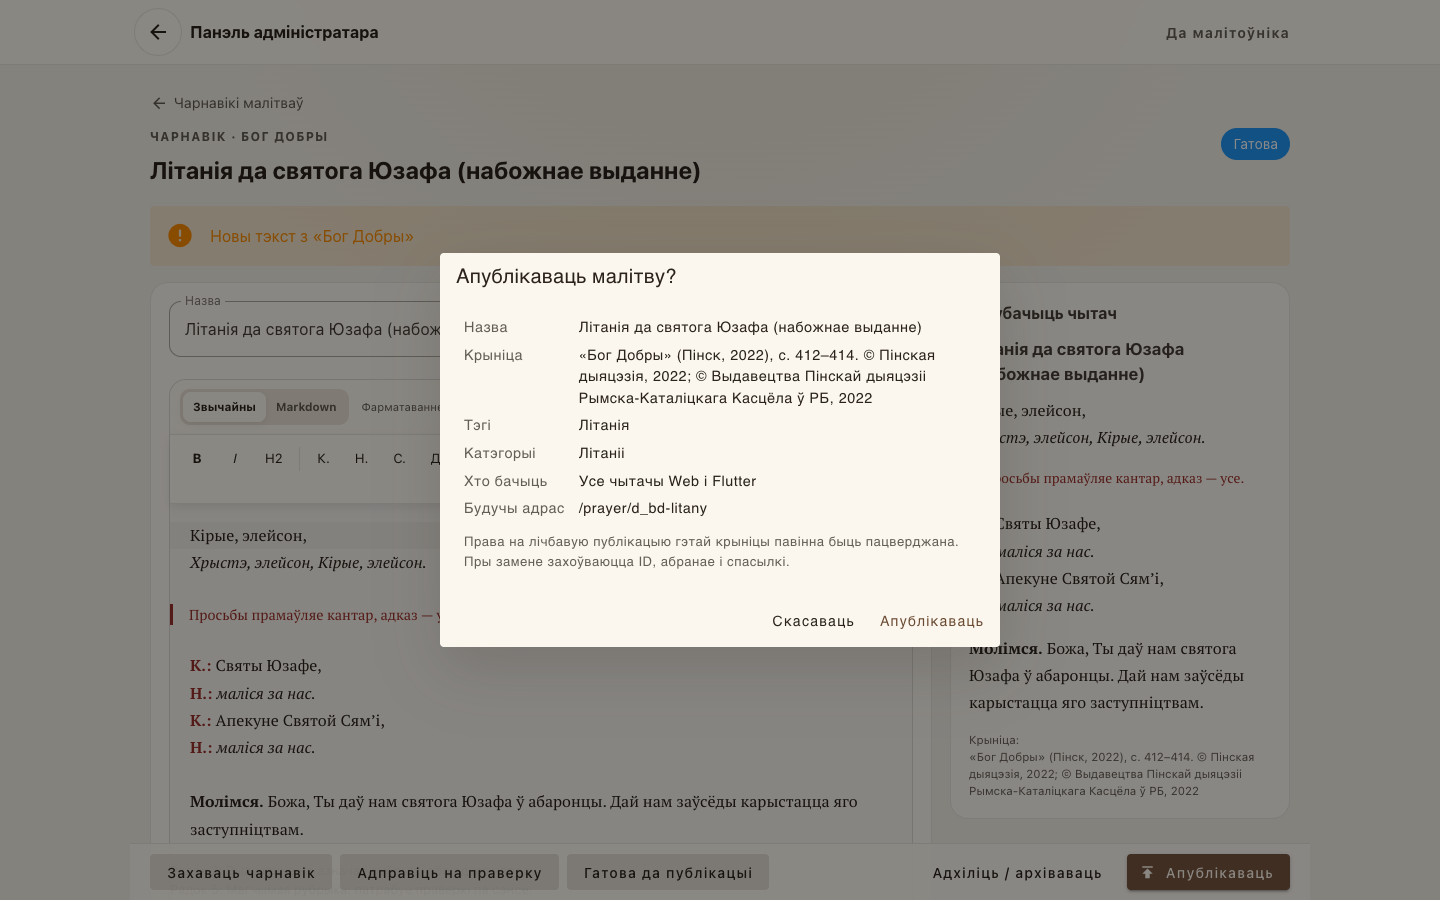
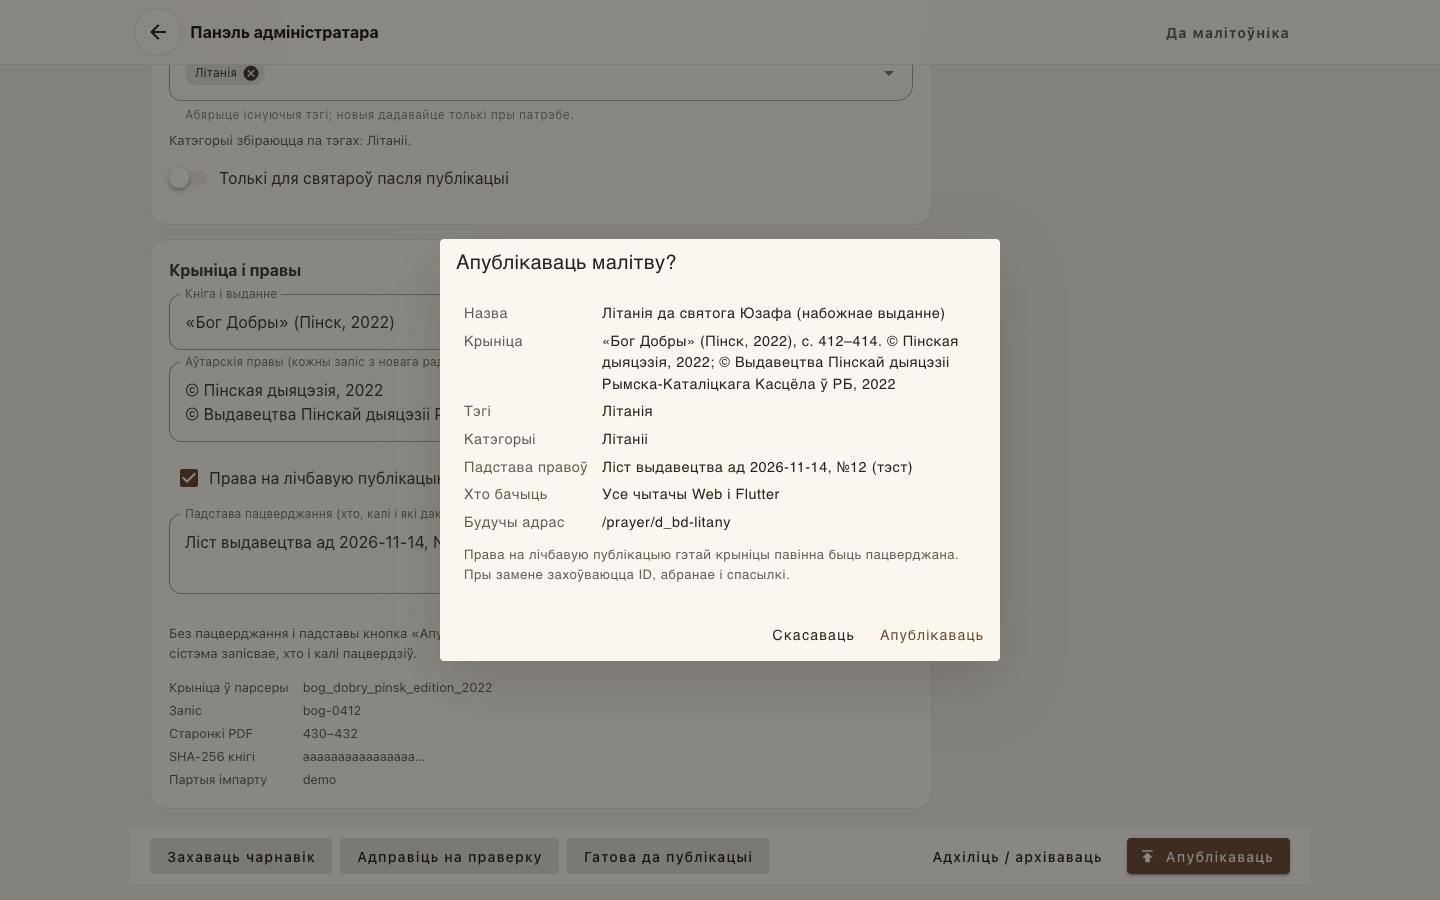
drafts: confirming digital-publication rights needs a written basis and a recorded confirmer
A bare checkbox is no longer a confirmation: rightsStatus 'confirmed' requires rightsBasis (10-500 chars),
the system records rightsConfirmedBy (the signed-in admin, forged uids are refused by the rules) and
rightsConfirmedAt, publication needs an explicit 'confirmed'. Importer: rights.json needs confirmedBy + basis.
Adds emulator tests for plain admin (priestOnly publish, status moves, audit, no superadmin powers) and
for forging the confirmer; the UI smoke now goes through the basis step as a plain admin.

diff --git a/src/views/admin/PrayerDraftEditor.vue b/src/views/admin/PrayerDraftEditor.vue
@@ -41,7 +41,9 @@
             <v-textarea v-model="copyrightText" label="Аўтарскія правы (кожны запіс з новага радка)" variant="outlined" rows="2" auto-grow hide-details="auto" class="mt-3" :readonly="locked" />
             <v-checkbox v-model="rightsConfirmed" class="mt-2" color="primary" hide-details :readonly="locked"
               label="Права на лічбавую публікацыю гэтай крыніцы пацверджаны пісьмова" />
-            <p class="hint">Без пацверджання кнопка «Апублікаваць» заблакаваная. Права на кнігу не вынікаюць з наяўнасці PDF.</p>
+            <v-textarea v-if="rightsConfirmed" v-model="form.rightsBasis" data-test="rights-basis" label="Падстава пацверджання (хто, калі і які дакумент ці ліцэнзія)" variant="outlined" rows="2" auto-grow
+              counter="500" maxlength="500" hide-details="auto" class="mt-2" :readonly="locked" :error="!basisValid" :error-messages="basisValid ? [] : ['Без падставы пацверджанне не дзейнічае (мінімум 10 сімвалаў).']" />
+            <p class="hint">Без пацверджання і падставы кнопка «Апублікаваць» заблакаваная. Права на кнігу не вынікаюць з наяўнасці PDF; сістэма запісвае, хто і калі пацвердзіў.</p>
             <dl class="provenance">
               <template v-for="row in provenance" :key="row[0]"><dt>{{ row[0] }}</dt><dd>{{ row[1] }}</dd></template>
             </dl>
@@ -94,6 +96,7 @@
             <dt>Крыніца</dt><dd>{{ sourceNotice || '—' }}</dd>
             <dt>Тэгі</dt><dd>{{ form.tags.join(', ') || '—' }}</dd>
             <dt>Катэгорыі</dt><dd>{{ categoryNames || '—' }}</dd>
+            <dt>Падстава правоў</dt><dd>{{ form.rightsBasis || '—' }}</dd>
             <dt>Хто бачыць</dt><dd>{{ form.priestOnly ? 'Толькі святары (абароненая калекцыя)' : 'Усе чытачы Web і Flutter' }}</dd>
             <dt>Будучы адрас</dt><dd>/prayer/{{ replaceId || targetId }}</dd>
           </dl>
@@ -140,7 +143,8 @@ const publishOpen = ref(false);
 const replaceId = ref('');
 const acknowledge = ref(false);
 const audit = ref([]);
-const form = ref({ title: '', text: '', tags: [], priestOnly: false, sourceBook: '', copyrightNotices: [], rightsStatus: '' });
+const form = ref({ title: '', text: '', tags: [], priestOnly: false, sourceBook: '', copyrightNotices: [], rightsStatus: '', rightsBasis: '' });
+const basisValid = computed(() => form.value.rightsStatus !== 'confirmed' || form.value.rightsBasis.trim().length >= 10);
 const rightsConfirmed = computed({ get: () => form.value.rightsStatus === 'confirmed', set: (value) => { form.value.rightsStatus = value ? 'confirmed' : 'unconfirmed'; } });
 const copyrightText = computed({
   get: () => form.value.copyrightNotices.join('\n'),
@@ -170,10 +174,11 @@ const provenance = computed(() => [
   ['Старонкі PDF', draft.value?.pdfPageStart ? `${draft.value.pdfPageStart}–${draft.value.pdfPageEnd || draft.value.pdfPageStart}` : ''],
   ['SHA-256 кнігі', draft.value?.sourceSha256 ? `${draft.value.sourceSha256.slice(0, 16)}…` : ''],
   ['Партыя імпарту', draft.value?.originBatch],
+  ['Правы пацвердзіў', draft.value?.rightsConfirmedBy && draft.value?.rightsStatus === 'confirmed' ? `${draft.value.rightsConfirmedBy}${draft.value.rightsConfirmedAt?.seconds ? `, ${new Date(draft.value.rightsConfirmedAt.seconds * 1000).toLocaleDateString('be-BY')}` : ''}` : ''],
 ].filter((row) => row[1]));
 
 function hydrate(source) {
-  form.value = { title: source.title || '', text: source.text || '', tags: [...(source.tags || [])], priestOnly: source.priestOnly === true, sourceBook: source.sourceBook || source.source || '', copyrightNotices: [...(source.copyrightNotices || [])], rightsStatus: source.rightsStatus || '' };
+  form.value = { title: source.title || '', text: source.text || '', tags: [...(source.tags || [])], priestOnly: source.priestOnly === true, sourceBook: source.sourceBook || source.source || '', copyrightNotices: [...(source.copyrightNotices || [])], rightsStatus: source.rightsStatus || '', rightsBasis: source.rightsBasis || '' };
 }
 const auditLabel = (entry) => {
   const date = entry.at?.toDate?.().toLocaleString('be-BY') || '';
@@ -195,7 +200,7 @@ async function load() {
 async function save(status) {
   busy.value = 'save'; message.value = null;
   try {
-    const patch = { title: form.value.title.trim(), text: form.value.text, tags: form.value.tags, priestOnly: form.value.priestOnly, sourceBook: form.value.sourceBook, copyrightNotices: form.value.copyrightNotices, ...(form.value.rightsStatus ? { rightsStatus: form.value.rightsStatus } : {}) };
+    const patch = { title: form.value.title.trim(), text: form.value.text, tags: form.value.tags, priestOnly: form.value.priestOnly, sourceBook: form.value.sourceBook, copyrightNotices: form.value.copyrightNotices, ...(form.value.rightsStatus ? { rightsStatus: form.value.rightsStatus, rightsBasis: form.value.rightsBasis.trim() } : {}) };
     await actions.saveDraft(draft.value.id, patch, { expectedVersion: draft.value.version, status });
     message.value = { type: 'success', text: status ? `Статус: ${DRAFT_STATUS_LABELS[status]}.` : 'Чарнавік захаваны.' };
     await load();
@@ -206,7 +211,7 @@ async function publish() {
   busy.value = 'publish'; message.value = null;
   try {
     // Unsaved edits go first, so exactly the confirmed text is published.
-    const patch = { title: form.value.title.trim(), text: form.value.text, tags: form.value.tags, priestOnly: form.value.priestOnly, sourceBook: form.value.sourceBook, copyrightNotices: form.value.copyrightNotices, ...(form.value.rightsStatus ? { rightsStatus: form.value.rightsStatus } : {}) };
+    const patch = { title: form.value.title.trim(), text: form.value.text, tags: form.value.tags, priestOnly: form.value.priestOnly, sourceBook: form.value.sourceBook, copyrightNotices: form.value.copyrightNotices, ...(form.value.rightsStatus ? { rightsStatus: form.value.rightsStatus, rightsBasis: form.value.rightsBasis.trim() } : {}) };
     await actions.saveDraft(draft.value.id, patch, { expectedVersion: draft.value.version });
     const fresh = await actions.getDraft(draft.value.id);
     const result = await actions.publishDraft(draft.value.id, { replaceId: replaceId.value || undefined, acknowledgeDuplicates: acknowledge.value, expectedVersion: fresh.version });

diff --git a/docs/prayer-drafts.md b/docs/prayer-drafts.md
@@ -28,3 +28,10 @@ Flutter публікацыю бачыць толькі пасля звычайн
 ## Праверкі
 
 `npm run test:drafts` (эмулятар Firestore, JDK 21): ролі anonymous / user / priest / unknown role / admin / superadmin / legacy; адмін без `superadmin` публікуе; два адміны адначасова → адна малітва; priest-only у абароненую калекцыю; блакіроўка змесціва; версійны канфлікт. `scripts/smoke-prayer-drafts-ui.mjs` — UI і скрыншоты (`audit-evidence/prayer-drafts/`).
+
+## Роля admin і падстава для правоў
+
+- Раздзел «Чарнавікі малітваў» цалкам даступны ролям `admin` і `superadmin` (а таксама legacy-адмінам). Маршруты `/admin/prayer-drafts*` і картка на `/admin` не маюць `requiresSuperAdmin`; правілы Firestore для `prayerDrafts` і публікацыі (`prayers`, `priestProtectedPrayers`, `priestContentControl`) выкарыстоўваюць `isAdmin()`, а не `managesPriests()`. Роля `admin` НЕ атрымлівае кіраванне адміністратарамі, доступам святароў і іншыя магчымасці superadmin; `user`, anonymous і святар толькі з device grant чарнавікоў не бачаць.
+- Права на лічбавую публікацыю «пацверджаныя» толькі з **пісьмовай падставай** (хто, калі, які дакумент ці ліцэнзія; 10–500 сімвалаў). Галачка без падставы не дзейнічае: рэдактар не захоўвае такі статус, публікацыя заблакаваная, правілы Firestore адхіляюць `rightsStatus: confirmed` без `rightsBasis`. Сістэма сама запісвае `rightsConfirmedBy` (uid таго, хто пацвердзіў; падрабіць чужы uid нельга) і `rightsConfirmedAt`.
+- Для імпарту: `rights.json` патрабуе `confirmedBy` і `basis` па кожнай крыніцы; без `basis` крыніца лічыцца непацверджанай.
+- Публікацыя патрабуе яўнага `rightsStatus: confirmed` (чарнавік без статусу больш не публікуецца).
